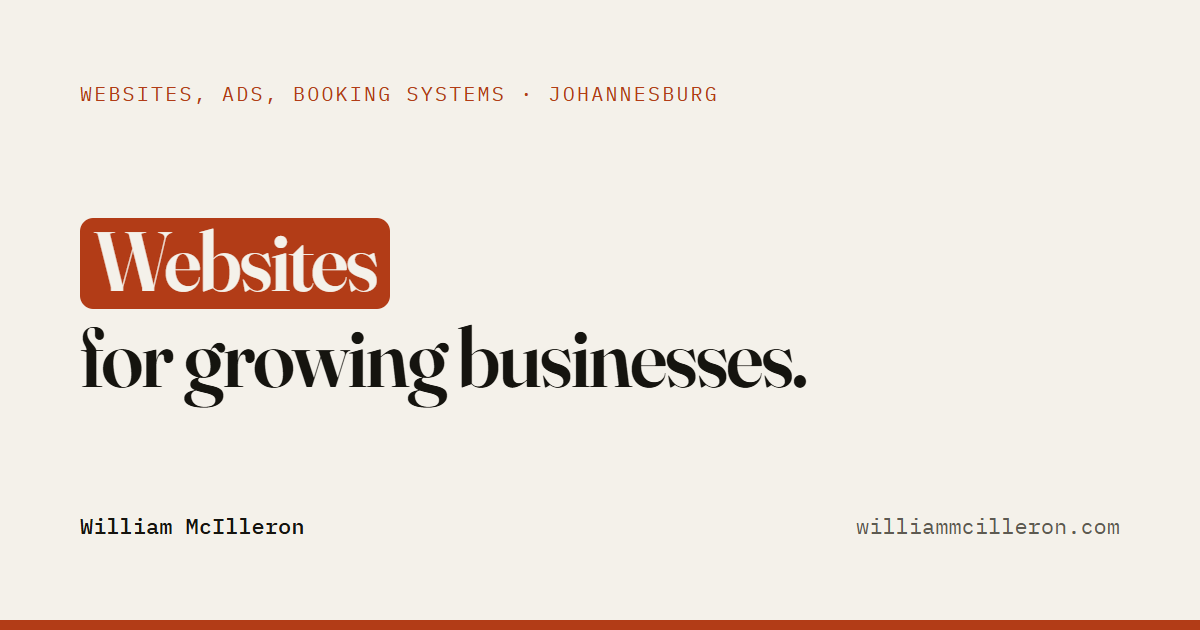
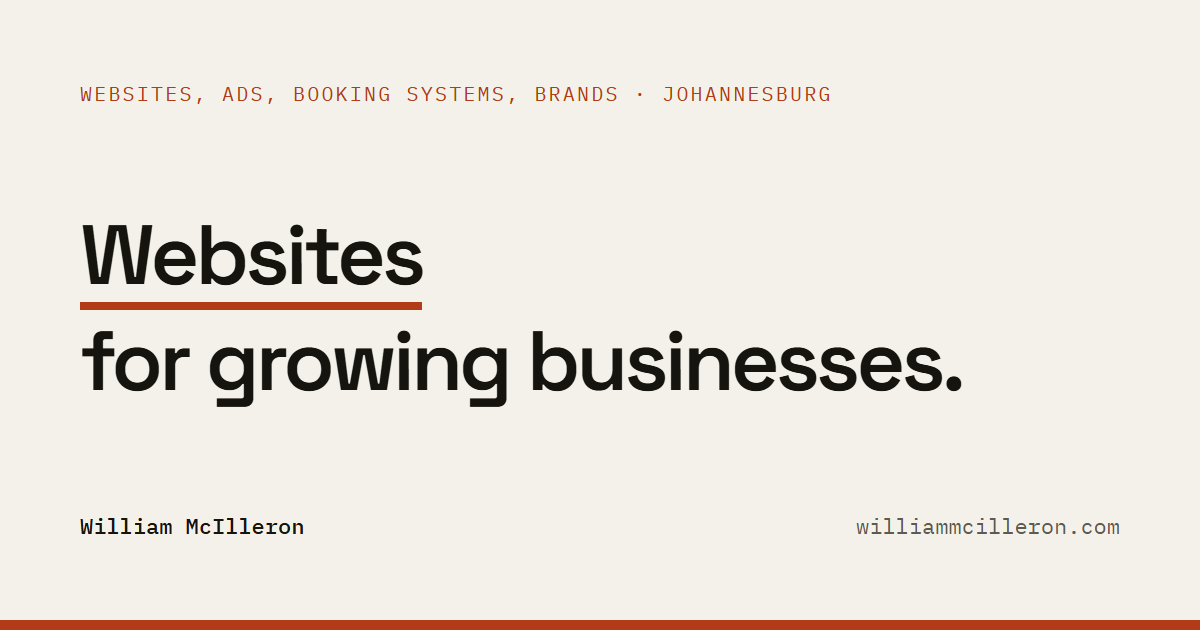
Home hero rebuilt: one live word with counter and drawing underline, floating work cards, one Pause for all of it
Replaces the green-pill, serif rotator. The h1 is Space Grotesk (self-hosted) scoped to .hero--home so the trade pages keep theirs. Five words on a 2s slot (10s pass, first change 1s after load), counter and underline per word. Three real sites (Kohi, MVS, Silver Lakes) as tilted cards with an eased hover lift and pointer tilt from 72rem up; below that a swipeable row. The Pause button stops the word, underline and cards. Reduced motion and no-JS show Websites and still cards. The old hero readout is hidden. og template and og.png updated to match.

Changed region(s): [[0.0617, 0.3317, 0.8017, 0.6635], [0.4317, 0.1206, 0.6783, 0.181]]

diff --git a/styles.css b/styles.css
@@ -56,6 +56,14 @@ U+201C,U+201D,U+2026,U+2190,U+2192,U+2197" \
 }
 
 @font-face {
+    font-family: 'Space Grotesk';
+    src: url('/fonts/spacegrotesk-var.woff2') format('woff2');
+    font-weight: 500 600;
+    font-style: normal;
+    font-display: swap;
+}
+
+@font-face {
     font-family: 'Karla';
     src: url('/fonts/karla-var.woff2') format('woff2');
     /* A range, not a value: this one file covers 400 through 600, which is
@@ -413,67 +421,121 @@ a { color: inherit; }
 /* Emphasis elsewhere is weight, not slant. */
 em { font-style: normal; font-weight: 500; }
 
-/* Rotating headline word. Every word sits in one grid cell, so the cell is as
-   wide and tall as the widest word and nothing moves when the word changes.
-   The accent fills a shape behind the word (STANDARD.md rule 3) instead of
-   slanting it. Only animates under .js: without script, and under
-   prefers-reduced-motion, the first word stays put. Starts 1s after load so it
-   is seen, plays 3 passes, then rests on "Websites"; hover or tap replays it,
-   and the Pause button (WCAG 2.2.2) stops it at any time. 5 words x 3s = 15s. */
-.hero__vis { display: block; }
-.rot { display: grid; justify-items: start; }
-.rot__w {
-    grid-area: 1 / 1;
-    width: fit-content;
-    padding: 0.02em 0.16em 0.09em;
-    margin-bottom: 0.05em;
-    border-radius: 0.16em;
-    background: var(--accent);
-    color: var(--accent-ink);
-    opacity: 0;
-    transform: translateY(55%);
-}
-.rot__w:first-child { opacity: 1; transform: none; }
-.hero__for { display: block; text-wrap: balance; }
+/* ── Home hero ─────────────────────────────────────────────────────────────
+   Scoped to .hero--home so the trade pages keep their own h1.
+   One live word at a time (counter, big word, an underline that draws itself),
+   beside three real sites as floating cards. Everything that moves is CSS and
+   one Pause button stops all of it (WCAG 2.2.2). Words: 5 x 2s = a 10s pass,
+   first change 1s after load. Only animates under .js and with motion allowed:
+   otherwise "Websites" stays put and the cards sit still.
+   The type is Space Grotesk (self-hosted, /fonts/); the rest of the site is
+   still Newsreader and Karla, which is a decision for the whole site. */
+@property --z { syntax: '<length>'; inherits: false; initial-value: 0px; }
 
-.js .rot__w {
-    animation: rotw 15s cubic-bezier(.2, .7, .2, 1) 3;
-    animation-delay: calc(1s + var(--i) * 3s);
+.hero--home { overflow-x: clip; --slot: 2s; --cycle: 10s; --ease: cubic-bezier(.2, .7, .2, 1); }
+.hero--home .hero__title {
+    font-family: 'Space Grotesk', var(--body);
+    font-weight: 600;
+    letter-spacing: -0.045em;
+    line-height: 0.98;
+    font-size: clamp(2.125rem, 1rem + 5.2vw, 3.75rem);
+    max-width: none;
 }
-.js .rot__w:first-child { animation-name: rotw0; }
-.rot.is-paused .rot__w { animation-play-state: paused; }
-
-@keyframes rotw {
-    0%   { opacity: 0; transform: translateY(55%); }
-    3%   { opacity: 1; transform: none; }
-    17%  { opacity: 1; transform: none; }
-    20%  { opacity: 0; transform: translateY(-55%); }
-    100% { opacity: 0; transform: translateY(-55%); }
+.hw-stack { display: grid; }
+.hw { grid-area: 1 / 1; opacity: 0; }
+.hw:first-child { opacity: 1; }
+.hw__n, .hero__list, .wcard__chip {
+    font-family: var(--body);
+    font-size: 0.6875rem;
+    font-weight: 600;
+    letter-spacing: 0.14em;
+    text-transform: uppercase;
 }
-@keyframes rotw0 {
-    0%   { opacity: 1; transform: none; }
-    17%  { opacity: 1; transform: none; }
-    20%  { opacity: 0; transform: translateY(-55%); }
-    100% { opacity: 0; transform: translateY(-55%); }
+.hw__n { display: block; margin-bottom: 0.9rem; color: var(--accent); letter-spacing: 0.14em; }
+.hw__w { display: block; white-space: nowrap; }
+.hw__u { display: block; height: 0.375rem; margin-top: 0.875rem; background: var(--accent); transform-origin: left; }
+.hero--home .hero__for {
+    margin-top: 1.5rem;
+    font-family: 'Space Grotesk', var(--body);
+    font-weight: 500;
+    font-size: clamp(1.25rem, 1rem + 1.1vw, 2rem);
+    letter-spacing: -0.02em;
+    line-height: 1.1;
 }
+.hero__list {
+    display: flex; flex-wrap: wrap; gap: 0.375rem 1rem;
+    margin: 1.75rem 0 0; padding: 0; list-style: none;
+    color: var(--muted);
+}
+.js .hw { animation: hw-in var(--cycle) var(--ease) infinite; animation-delay: calc(1s + var(--i) * var(--slot)); }
+.js .hw:first-child { animation-name: hw-in0; }
+.js .hw__u { transform: scaleX(0); animation: hw-bar var(--slot) linear infinite; animation-delay: calc(1s + var(--i) * var(--slot)); }
+.js .hw:first-child .hw__u { animation-delay: 1s; }
+@keyframes hw-in  { 0% { opacity: 0; transform: translateY(40%); } 4% { opacity: 1; transform: none; } 16% { opacity: 1; transform: none; } 20% { opacity: 0; transform: translateY(-40%); } 100% { opacity: 0; transform: translateY(-40%); } }
+@keyframes hw-in0 { 0% { opacity: 1; transform: none; } 16% { opacity: 1; transform: none; } 20% { opacity: 0; transform: translateY(-40%); } 100% { opacity: 0; transform: translateY(-40%); } }
+@keyframes hw-bar { 0% { transform: scaleX(0); } 90%, 100% { transform: scaleX(1); } }
 
 .rot-pause {
-    margin-top: 1.25rem;
-    padding: 0.5rem 0;
-    border: 0;
-    background: none;
-    color: var(--muted);
-    font: inherit;
-    font-size: 0.75rem;
-    letter-spacing: 0.1em;
-    text-transform: uppercase;
-    cursor: pointer;
+    margin-top: 1rem; padding: 0.5rem 0; border: 0; background: none; color: var(--muted);
+    font: inherit; font-size: 0.75rem; letter-spacing: 0.1em; text-transform: uppercase; cursor: pointer;
 }
 .rot-pause:hover { color: var(--ink); }
 .rot-pause:focus-visible { outline: 2px solid var(--accent); outline-offset: 3px; }
 .rot-pause[aria-pressed="true"]::after { content: ' (paused)'; }
+.hero--home .readout { display: none; }
+
+/* floating work */
+.hero__stage { margin: 2.25rem calc(var(--gutter) * -1) 0; padding: 0.25rem var(--gutter) 1rem; overflow-x: auto; scroll-snap-type: x mandatory; -webkit-overflow-scrolling: touch; }
+.hero__rig { display: flex; gap: 0.875rem; }
+.wcard {
+    position: relative; flex: 0 0 min(80%, 22rem); aspect-ratio: 8 / 5; scroll-snap-align: start;
+    border-radius: 0.875rem; overflow: hidden; background: var(--surface); color: var(--ink); text-decoration: none;
+    box-shadow: 0 0 0 1px color-mix(in srgb, var(--ink) 10%, transparent);
+}
+.wcard img { position: absolute; inset: 0; width: 100%; height: 100%; display: block; object-fit: cover; }
+.wcard__chip {
+    position: absolute; left: 0.625rem; bottom: 0.625rem; padding: 0.45rem 0.7rem; border-radius: 999px;
+    background: color-mix(in srgb, var(--paper) 82%, transparent); backdrop-filter: blur(6px);
+}
+.wcard__chip b { margin-left: 0.5rem; font-weight: 600; color: var(--accent); }
+.wcard:focus-visible { outline: 2px solid var(--accent); outline-offset: 3px; }
+
+@media (min-width: 72rem) {
+    .hero--home { min-height: min(100svh, 48rem); display: flex; align-items: center; }
+    .hero--home > .wrap { position: relative; }
+    .hero--home .wrap > :not(.hero__stage) { max-width: min(100%, 31rem); }
+    .hero--home .hero__lede { max-width: 40ch; }
+    .hero__stage {
+        position: absolute; top: 0; bottom: 0; right: 0; width: 50%;
+        margin: 0; padding: 0; overflow: visible; scroll-snap-type: none; pointer-events: none;
+        perspective: 1500px; perspective-origin: 30% 45%;
+    }
+    .hero__rig {
+        position: absolute; inset: 0; display: block; transform-style: preserve-3d;
+        transform: rotateY(var(--ry, 0deg)) rotateX(var(--rx, 0deg));
+        transition: transform 0.9s var(--ease);
+    }
+    .wcard {
+        position: absolute; width: min(26vw, 24rem); flex: none; pointer-events: auto;
+        transform: rotateY(-16deg) rotateX(6deg) rotateZ(-3deg) translateZ(var(--z, 0px));
+        box-shadow: 0 2.5rem 5rem -1.25rem rgba(0, 0, 0, 0.7), 0 0 0 1px color-mix(in srgb, var(--ink) 10%, transparent);
+        transition: --z 0.8s var(--ease), box-shadow 0.8s var(--ease);
+    }
+    .js .wcard { animation: wfloat 9s ease-in-out infinite; animation-delay: var(--d, 0s); }
+    .wcard--1 { left: 6%;  top: 8%;  --z: 70px;  --d: 0s; }
+    .wcard--2 { left: 34%; top: 36%; --z: 20px;  --d: -3s; }
+    .wcard--3 { left: 8%;  top: 62%; --z: -30px; --d: -6s; }
+    .wcard:hover, .wcard:focus-visible {
+        --z: 90px;
+        box-shadow: 0 3.5rem 7rem -1.25rem rgba(0, 0, 0, 0.8), 0 0 0 1px color-mix(in srgb, var(--accent) 55%, transparent);
+    }
+}
+@keyframes wfloat { 0%, 100% { translate: 0 0; } 50% { translate: 0 -0.875rem; } }
+.hero--home.is-paused .hw, .hero--home.is-paused .hw__u, .hero--home.is-paused .wcard { animation-play-state: paused; }
 @media (prefers-reduced-motion: reduce) {
-    .rot__w { animation: none !important; }
+    .js .hw, .js .hw__u, .js .wcard { animation: none !important; }
+    .js .hw__u { transform: scaleX(1); }
+    .hero__rig { transition: none; }
     .rot-pause { display: none; }
 }
 

diff --git a/index.html b/index.html
@@ -116,7 +116,7 @@
 
     <main id="main">
         <!-- ── Hero ───────────────────────────────────────────────── -->
-        <section class="hero" id="top">
+        <section class="hero hero--home" id="top">
             <div class="wrap">
                 <!-- No `reveal` on anything above the fold. It used to be here,
                      which meant the h1 and the lede were opacity:0 until a deferred
@@ -124,18 +124,15 @@
                      loaded. -->
                 <h1 class="hero__title">
                     <span class="vh">Websites, Google ads, booking systems, brands and social media for growing businesses.</span>
-                    <span class="hero__vis" aria-hidden="true">
-                        <span class="rot" id="rot">
-                            <span class="rot__w" style="--i:0">Websites</span>
-                            <span class="rot__w" style="--i:1">Google ads</span>
-                            <span class="rot__w" style="--i:2">Booking systems</span>
-                            <span class="rot__w" style="--i:3">Brands</span>
-                            <span class="rot__w" style="--i:4">Social media</span>
-                        </span>
-                        <span class="hero__for">for growing businesses.</span>
+                    <span class="hw-stack" aria-hidden="true">
+                        <span class="hw" style="--i:0"><span class="hw__n">01 / 05</span><span class="hw__w">Websites</span><span class="hw__u"></span></span>
+                        <span class="hw" style="--i:1"><span class="hw__n">02 / 05</span><span class="hw__w">Google ads</span><span class="hw__u"></span></span>
+                        <span class="hw" style="--i:2"><span class="hw__n">03 / 05</span><span class="hw__w">Booking systems</span><span class="hw__u"></span></span>
+                        <span class="hw" style="--i:3"><span class="hw__n">04 / 05</span><span class="hw__w">Brands</span><span class="hw__u"></span></span>
+                        <span class="hw" style="--i:4"><span class="hw__n">05 / 05</span><span class="hw__w">Social media</span><span class="hw__u"></span></span>
                     </span>
                 </h1>
-                <button class="rot-pause" id="rotPause" type="button" aria-pressed="false" hidden>Pause the moving word</button>
+                <p class="hero__for" aria-hidden="true">for growing businesses.</p>
 
                 <p class="hero__lede">
                     I'm William. I build it, set it up and look after it once it's live: fast websites,
@@ -154,8 +151,34 @@
                     <a href="https://wa.me/27723555350" target="_blank" rel="noopener">message me on WhatsApp<span class="vh"> (opens in a new tab)</span></a>.</p>
                 </div>
 
+                <ul class="hero__list" aria-hidden="true">
+                    <li>Websites</li>
+                    <li>Google ads</li>
+                    <li>Booking systems</li>
+                    <li>Brands</li>
+                    <li>Social media</li>
+                </ul>
+                <button class="rot-pause" id="rotPause" type="button" aria-pressed="false" hidden>Pause the moving word</button>
+
                 <!-- script.js inserts .readout here: live page weight, first
                      paint, viewport and Johannesburg time. -->
+
+                <div class="hero__stage">
+                    <div class="hero__rig" id="heroRig">
+                        <a class="wcard wcard--1" href="https://www.kohibyifuku.co.za" target="_blank" rel="noopener">
+                            <img src="/work-kohi.webp" width="1040" height="650" alt="Home page of Kōhī by Ifuku, a café and listening room in Milpark" decoding="async">
+                            <span class="wcard__chip">Kōhī by Ifuku <b>Live</b><span class="vh"> (opens in a new tab)</span></span>
+                        </a>
+                        <a class="wcard wcard--2" href="https://mvsglobalpools.co.za" target="_blank" rel="noopener">
+                            <img src="/work-mvs.webp" width="1040" height="650" alt="Home page of MVS Global Pools, a pool building and renovation company" decoding="async" loading="lazy">
+                            <span class="wcard__chip">MVS Global Pools <b>Client site</b><span class="vh"> (opens in a new tab)</span></span>
+                        </a>
+                        <a class="wcard wcard--3" href="https://silverlakesmarketplace.co.za" target="_blank" rel="noopener">
+                            <img src="/work-silverlakes.webp" width="1040" height="650" alt="Home page of Silver Lakes Marketplace, a local buy and sell site" decoding="async" loading="lazy">
+                            <span class="wcard__chip">Silver Lakes Marketplace <b>Live, work paused</b><span class="vh"> (opens in a new tab)</span></span>
+                        </a>
+                    </div>
+                </div>
             </div>
         </section>
 

diff --git a/script.js b/script.js
@@ -557,38 +557,36 @@
     var year = document.getElementById('year');
     if (year) year.textContent = new Date().getFullYear();
 
-    /* --- Rotating headline word ------------------------------------------- */
-    // The loop itself is CSS (see .rot in styles.css). This adds the Pause
-    // control, and replays the loop on hover, tap or click once its three
-    // passes have finished. Nothing here is needed to read the page.
+    /* --- Home hero ---------------------------------------------------------- */
+    // The word loop and the floating cards are CSS (see .hero--home in
+    // styles.css). This adds the Pause button, which stops all of it, and a
+    // small pointer tilt for the cards on desktop. Nothing here is needed to
+    // read the page.
     (function () {
-        var rot = document.getElementById('rot');
+        var hero = document.querySelector('.hero--home');
         var btn = document.getElementById('rotPause');
-        var title = document.querySelector('.hero__title');
-        if (!rot || !btn || !title || reduceMotion.matches) return;
-        var words = rot.querySelectorAll('.rot__w');
-        var last = words[words.length - 1];
-        var done = false;
+        var rig = document.getElementById('heroRig');
+        if (!hero || reduceMotion.matches) return;
 
-        btn.hidden = false;
-        btn.addEventListener('click', function () {
-            var paused = rot.classList.toggle('is-paused');
-            btn.setAttribute('aria-pressed', String(paused));
-        });
-
-        last.addEventListener('animationend', function () { done = true; });
-
-        function replay() {
-            if (!done || rot.classList.contains('is-paused')) return;
-            done = false;
-            words.forEach(function (w, i) {
-                w.style.animation = 'none';
-                void w.offsetWidth;
-                w.style.animation = '';
-                w.style.animationDelay = (i * 3) + 's';
+        if (btn) {
+            btn.hidden = false;
+            btn.addEventListener('click', function () {
+                var paused = hero.classList.toggle('is-paused');
+                btn.setAttribute('aria-pressed', String(paused));
             });
         }
-        title.addEventListener('pointerenter', replay);
-        title.addEventListener('click', replay);
+
+        if (rig && matchMedia('(hover: hover) and (min-width: 72rem)').matches) {
+            var raf = 0;
+            addEventListener('pointermove', function (e) {
+                if (raf) return;
+                raf = requestAnimationFrame(function () {
+                    raf = 0;
+                    var x = e.clientX / innerWidth - 0.5, y = e.clientY / innerHeight - 0.5;
+                    rig.style.setProperty('--ry', (x * 8).toFixed(2) + 'deg');
+                    rig.style.setProperty('--rx', (-y * 6).toFixed(2) + 'deg');
+                });
+            }, { passive: true });
+        }
     })();
 })();

diff --git a/og-template.html b/og-template.html
@@ -16,7 +16,7 @@
     <meta name="robots" content="noindex">
     <link rel="preconnect" href="https://fonts.googleapis.com">
     <link rel="preconnect" href="https://fonts.gstatic.com" crossorigin>
-    <link rel="stylesheet" href="https://fonts.googleapis.com/css2?family=Fraunces:opsz,wght@9..144,400;9..144,600&family=IBM+Plex+Mono:wght@400;500&display=swap">
+    <link rel="stylesheet" href="https://fonts.googleapis.com/css2?family=Space+Grotesk:wght@500;600&family=IBM+Plex+Mono:wght@400;500&display=swap">
     <style>
         * { margin: 0; box-sizing: border-box; }
 
@@ -50,16 +50,15 @@
         }
 
         .headline {
-            font-family: 'Fraunces', Georgia, serif;
+            font-family: 'Space Grotesk', system-ui, sans-serif;
             font-size: 5.25rem;
             font-weight: 600;
-            font-variation-settings: 'opsz' 120;
             line-height: 1.02;
-            letter-spacing: -0.025em;
+            letter-spacing: -0.045em;
             max-width: 17ch;
         }
 
-        .headline .pill { background: #b23c17; color: #f4f1ea; padding: 0 0.16em 0.06em; border-radius: 0.16em; display: inline-block; margin-bottom: 0.06em; }
+        .headline .pill { display: inline-block; padding-bottom: 0.04em; border-bottom: 0.1em solid #b23c17; margin-bottom: 0.1em; }
 
         .foot {
             display: flex;
@@ -75,7 +74,7 @@
 </head>
 <body>
     <div class="card">
-        <p class="eyebrow">Websites, ads, booking systems &middot; Johannesburg</p>
+        <p class="eyebrow">Websites, ads, booking systems, brands &middot; Johannesburg</p>
 
         <h1 class="headline"><span class="pill">Websites</span><br>for growing businesses.</h1>
 
